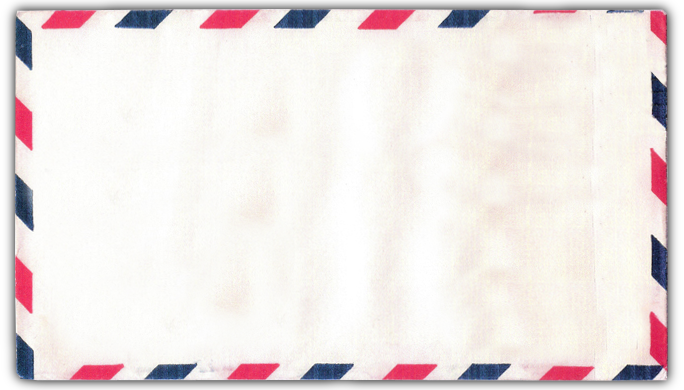
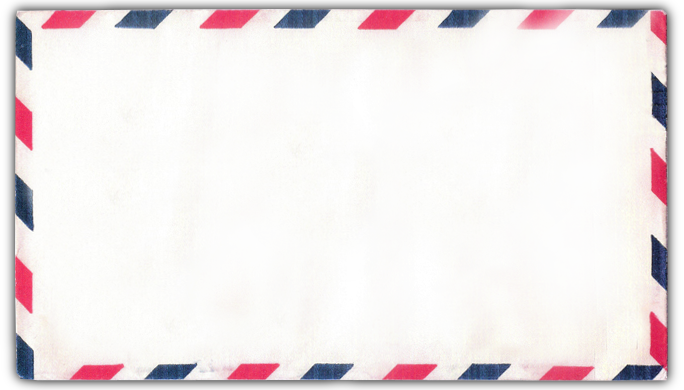
Updated UI

diff --git a/data/qml/EnvelopeFront.qml b/data/qml/EnvelopeFront.qml
@@ -2,9 +2,25 @@
 import QtQuick 1.1
 
 Image {
+    id: image1
     smooth: true
     anchors.fill: parent
     source: "images/envelopeFront.png"
+
+    Image {
+        id: stamp
+        y: 257
+        width: parent.width * 0.35
+        fillMode: Image.PreserveAspectFit
+        anchors.left: parent.left
+        anchors.leftMargin: parent.width * 0.1
+        anchors.bottom: parent.bottom
+        anchors.bottomMargin: parent.width * 0.1
+        opacity: 0.400
+        smooth: true
+        source: "images/postmanStamp.png"
+        rotation: 3
+    }
 
     MouseArea {
         id: mouseArea
@@ -17,4 +33,5 @@ Image {
             servicesModel.deselectAllStamps()
         }
     }
+
 }

diff --git a/data/qml/main.qml b/data/qml/main.qml
@@ -143,7 +143,7 @@ Image {
 
     Envelope {
         id: envelope
-        width: 450
+        width: parent.width * 0.6
         anchors.verticalCenter: parent.verticalCenter
         anchors.horizontalCenter: parent.horizontalCenter
 
